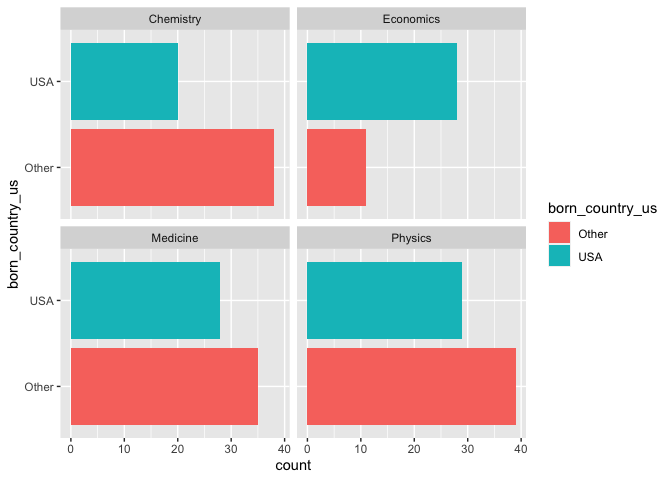
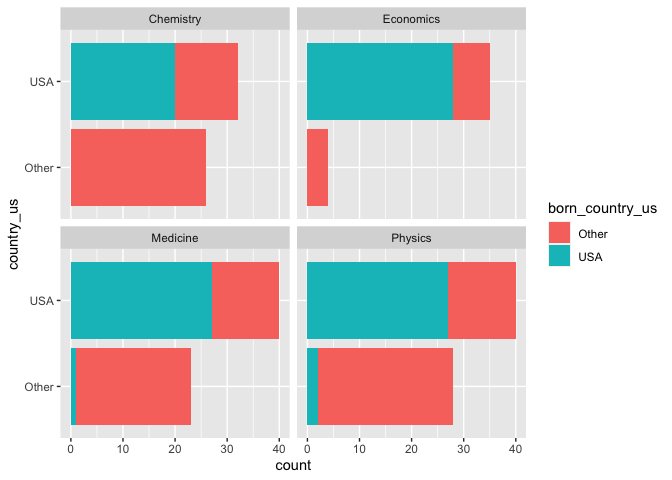
Finished!

diff --git a/lab-03.md b/lab-03.md
@@ -138,14 +138,14 @@ message(born_US_count, " individuals in the the nobel_living_science dataset wer
 
     ## 105 individuals in the the nobel_living_science dataset were born in the US
 
-Finally, we can adapt the code. from Ex. 3 to split things up by whether
-or not the researcher was born in the US. When we do this, we get a
-different picture than when we graph based on where the researcher is
-based:
+### Exercise 5
+
+Finally, we can adapt the code. from Ex. 3 to see how many of the
+US/foreign based winners were born in the US vs. outside the US:
 
 ``` r
 ggplot(data = nobel_living_science,
-       mapping = aes(x = born_country_us,
+       mapping = aes(x = country_us,
                      fill = born_country_us)) + 
   geom_histogram(stat = "count") +
   coord_flip() +
@@ -157,21 +157,53 @@ ggplot(data = nobel_living_science,
 
 ![](lab-03_files/figure-gfm/US-born-plot-1.png)<!-- -->
 
-So it actually looks like being born in the US puts you at a slight
-disadvantage for winning the Nobel in every category except economics.
-Therefore, it looks like being *in* the US helps for winning a prize,
-but being *from* the US generally doesn’t. This supports the conclusions
-drawn by the Buzzfeed article, since the only way you could be based in
-the US but not from there is if you immigrated.
-
-### Exercise 4
-
-…
-
-### Exercise 5
-
-…
+This allows us to see that, while a majority of the US-based winners in
+the sciences were also US-born, a sizeable chunk were born outside the
+US. Therefore, it looks like being *in* the US helps for winning a
+prize, but being *from* the US isn’t as strong a predictor. This
+supports the conclusions drawn by the Buzzfeed article, since the only
+way you could be based in the US but not from there is if you
+immigrated.
 
 ### Exercise 6
 
-…
+So, where are those immigrant Nobel laureates from? The code below
+allows us to answer that question by filtering from
+`nobel_living_sciences` those winners who were based in the US at the
+time of their award but who were born outside of it. We can then
+generate a frequency plot that tells us the names and counts of the
+countries where these individuals were born:
+
+``` r
+born_country_counts <- nobel_living_science %>%
+  filter(country_us == "USA",
+         born_country_us == "Other") %>%
+  count(born_country, sort = TRUE)
+
+print(born_country_counts, n = 100)
+```
+
+    ## # A tibble: 21 × 2
+    ##    born_country       n
+    ##    <chr>          <int>
+    ##  1 Germany            7
+    ##  2 United Kingdom     7
+    ##  3 China              5
+    ##  4 Canada             4
+    ##  5 Japan              3
+    ##  6 Australia          2
+    ##  7 Israel             2
+    ##  8 Norway             2
+    ##  9 Austria            1
+    ## 10 Finland            1
+    ## 11 France             1
+    ## 12 Ireland            1
+    ## 13 Italy              1
+    ## 14 Lithuania          1
+    ## 15 Mexico             1
+    ## 16 Scotland           1
+    ## 17 South Africa       1
+    ## 18 Sweden             1
+    ## 19 Taiwan             1
+    ## 20 Turkey             1
+    ## 21 Ukraine            1
